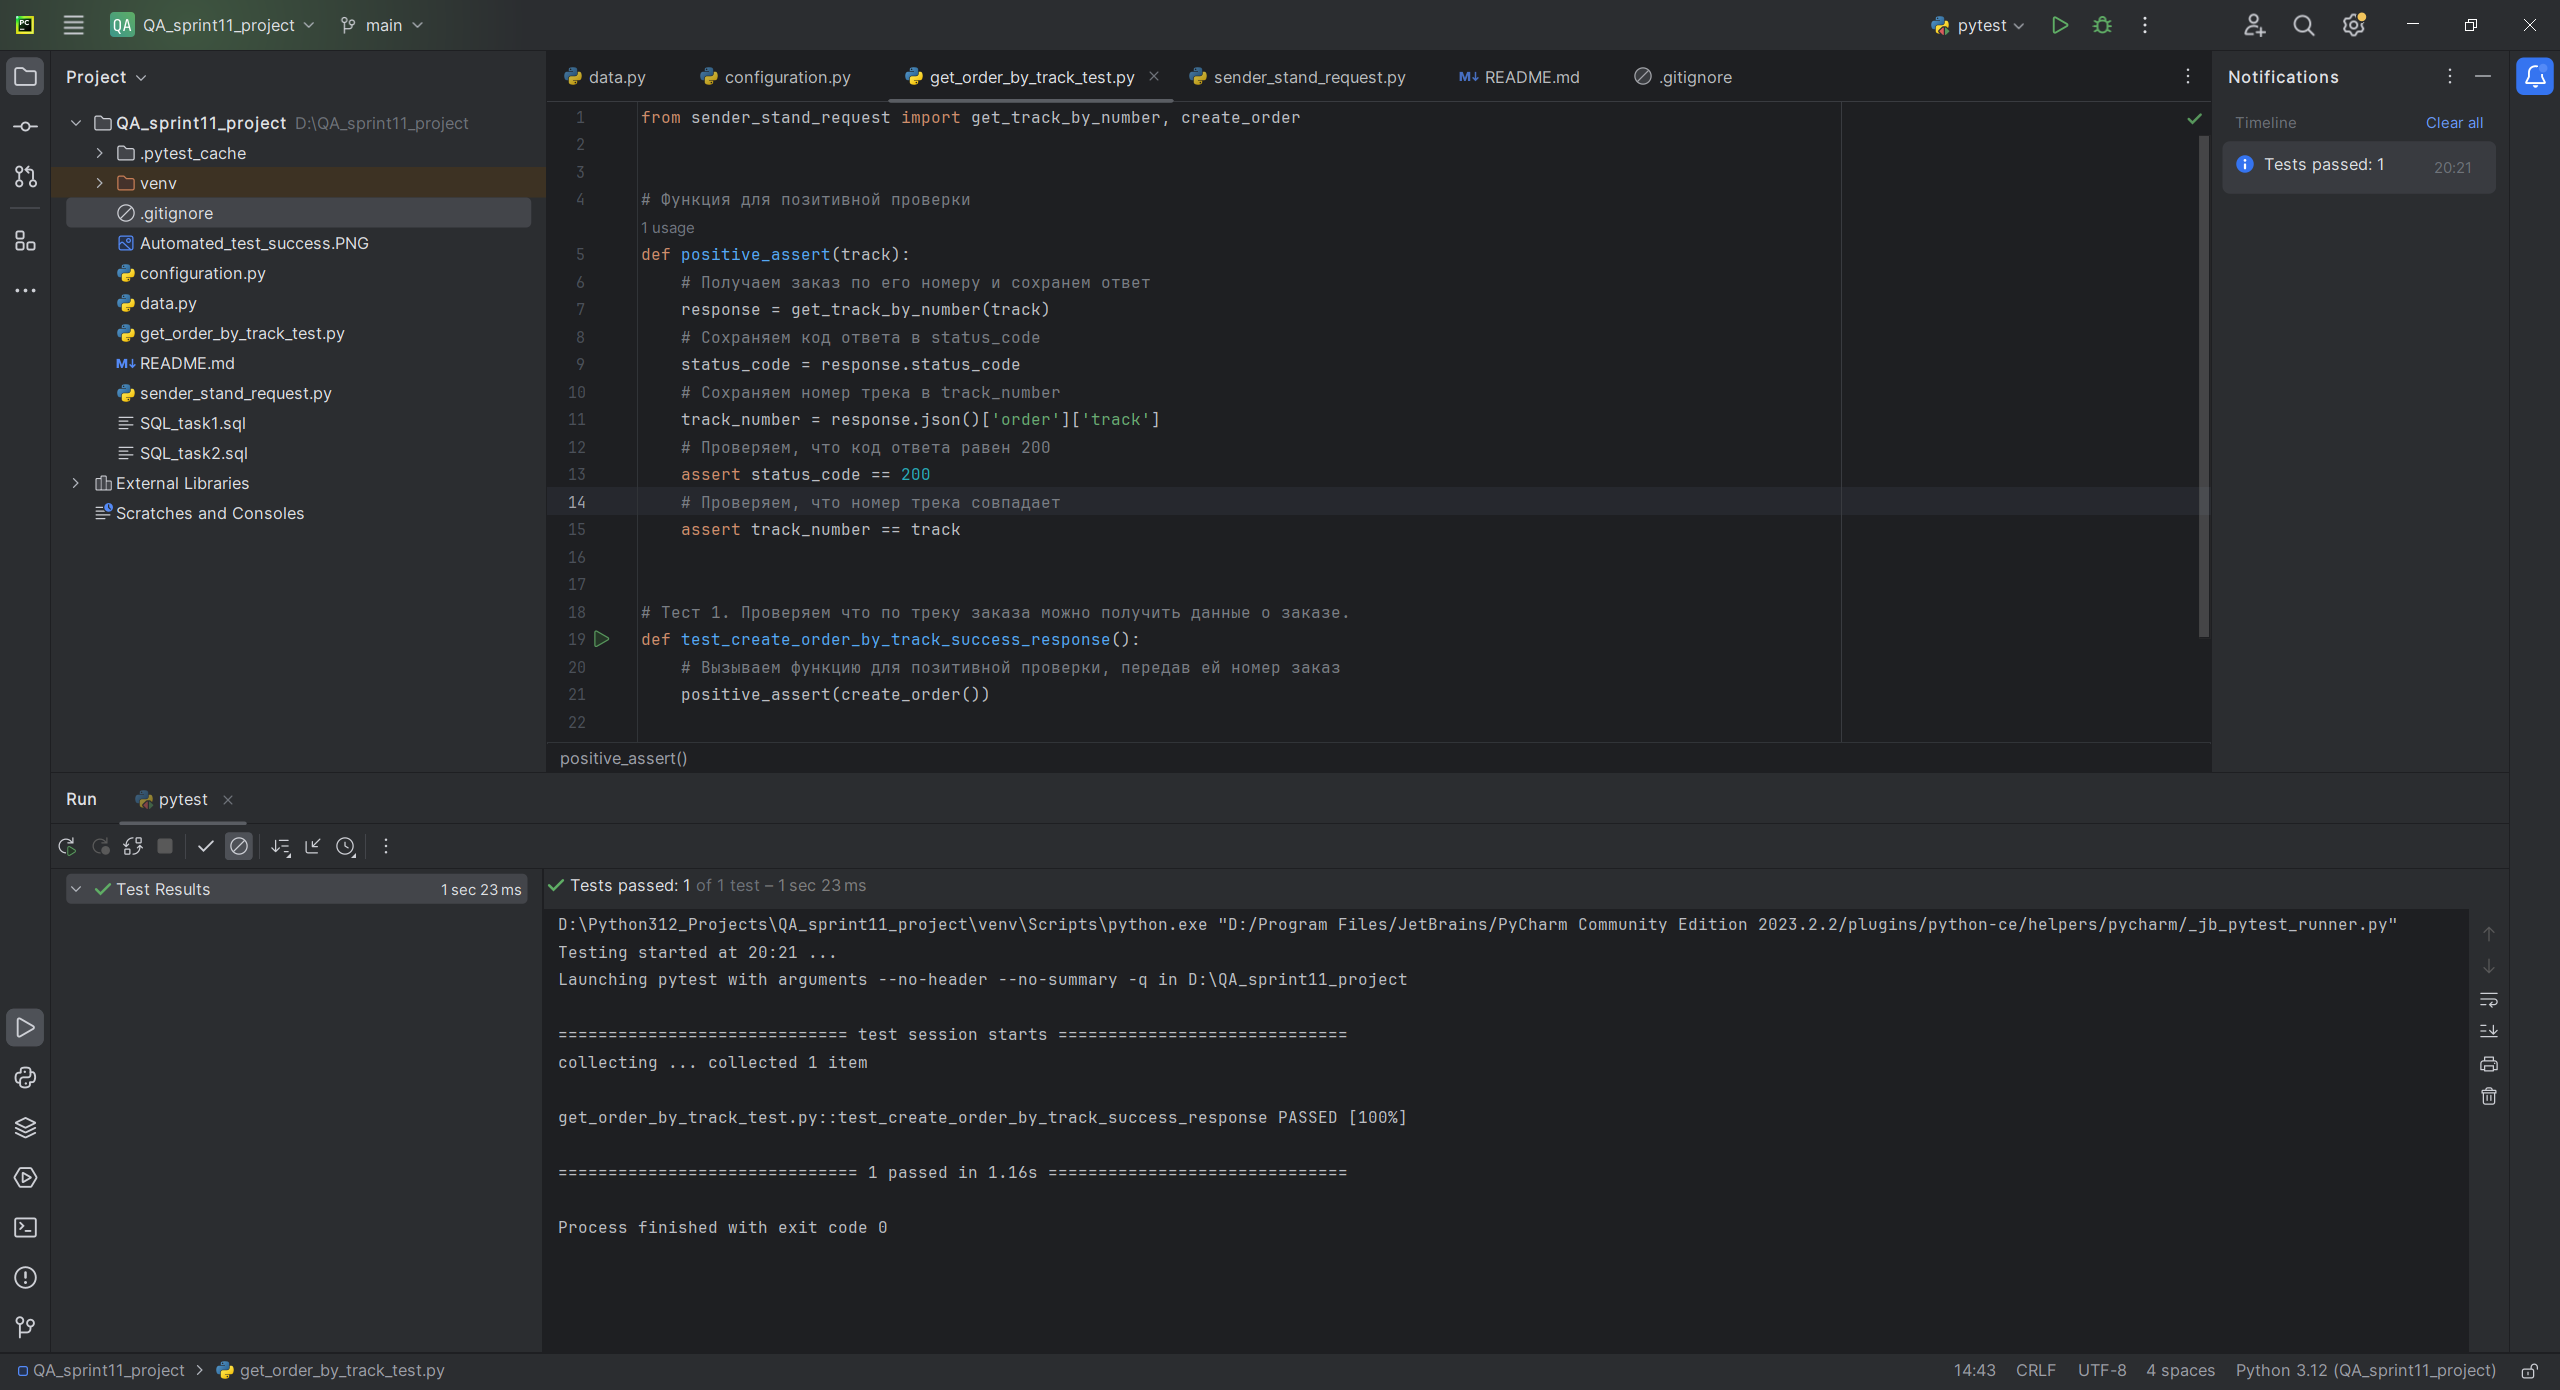
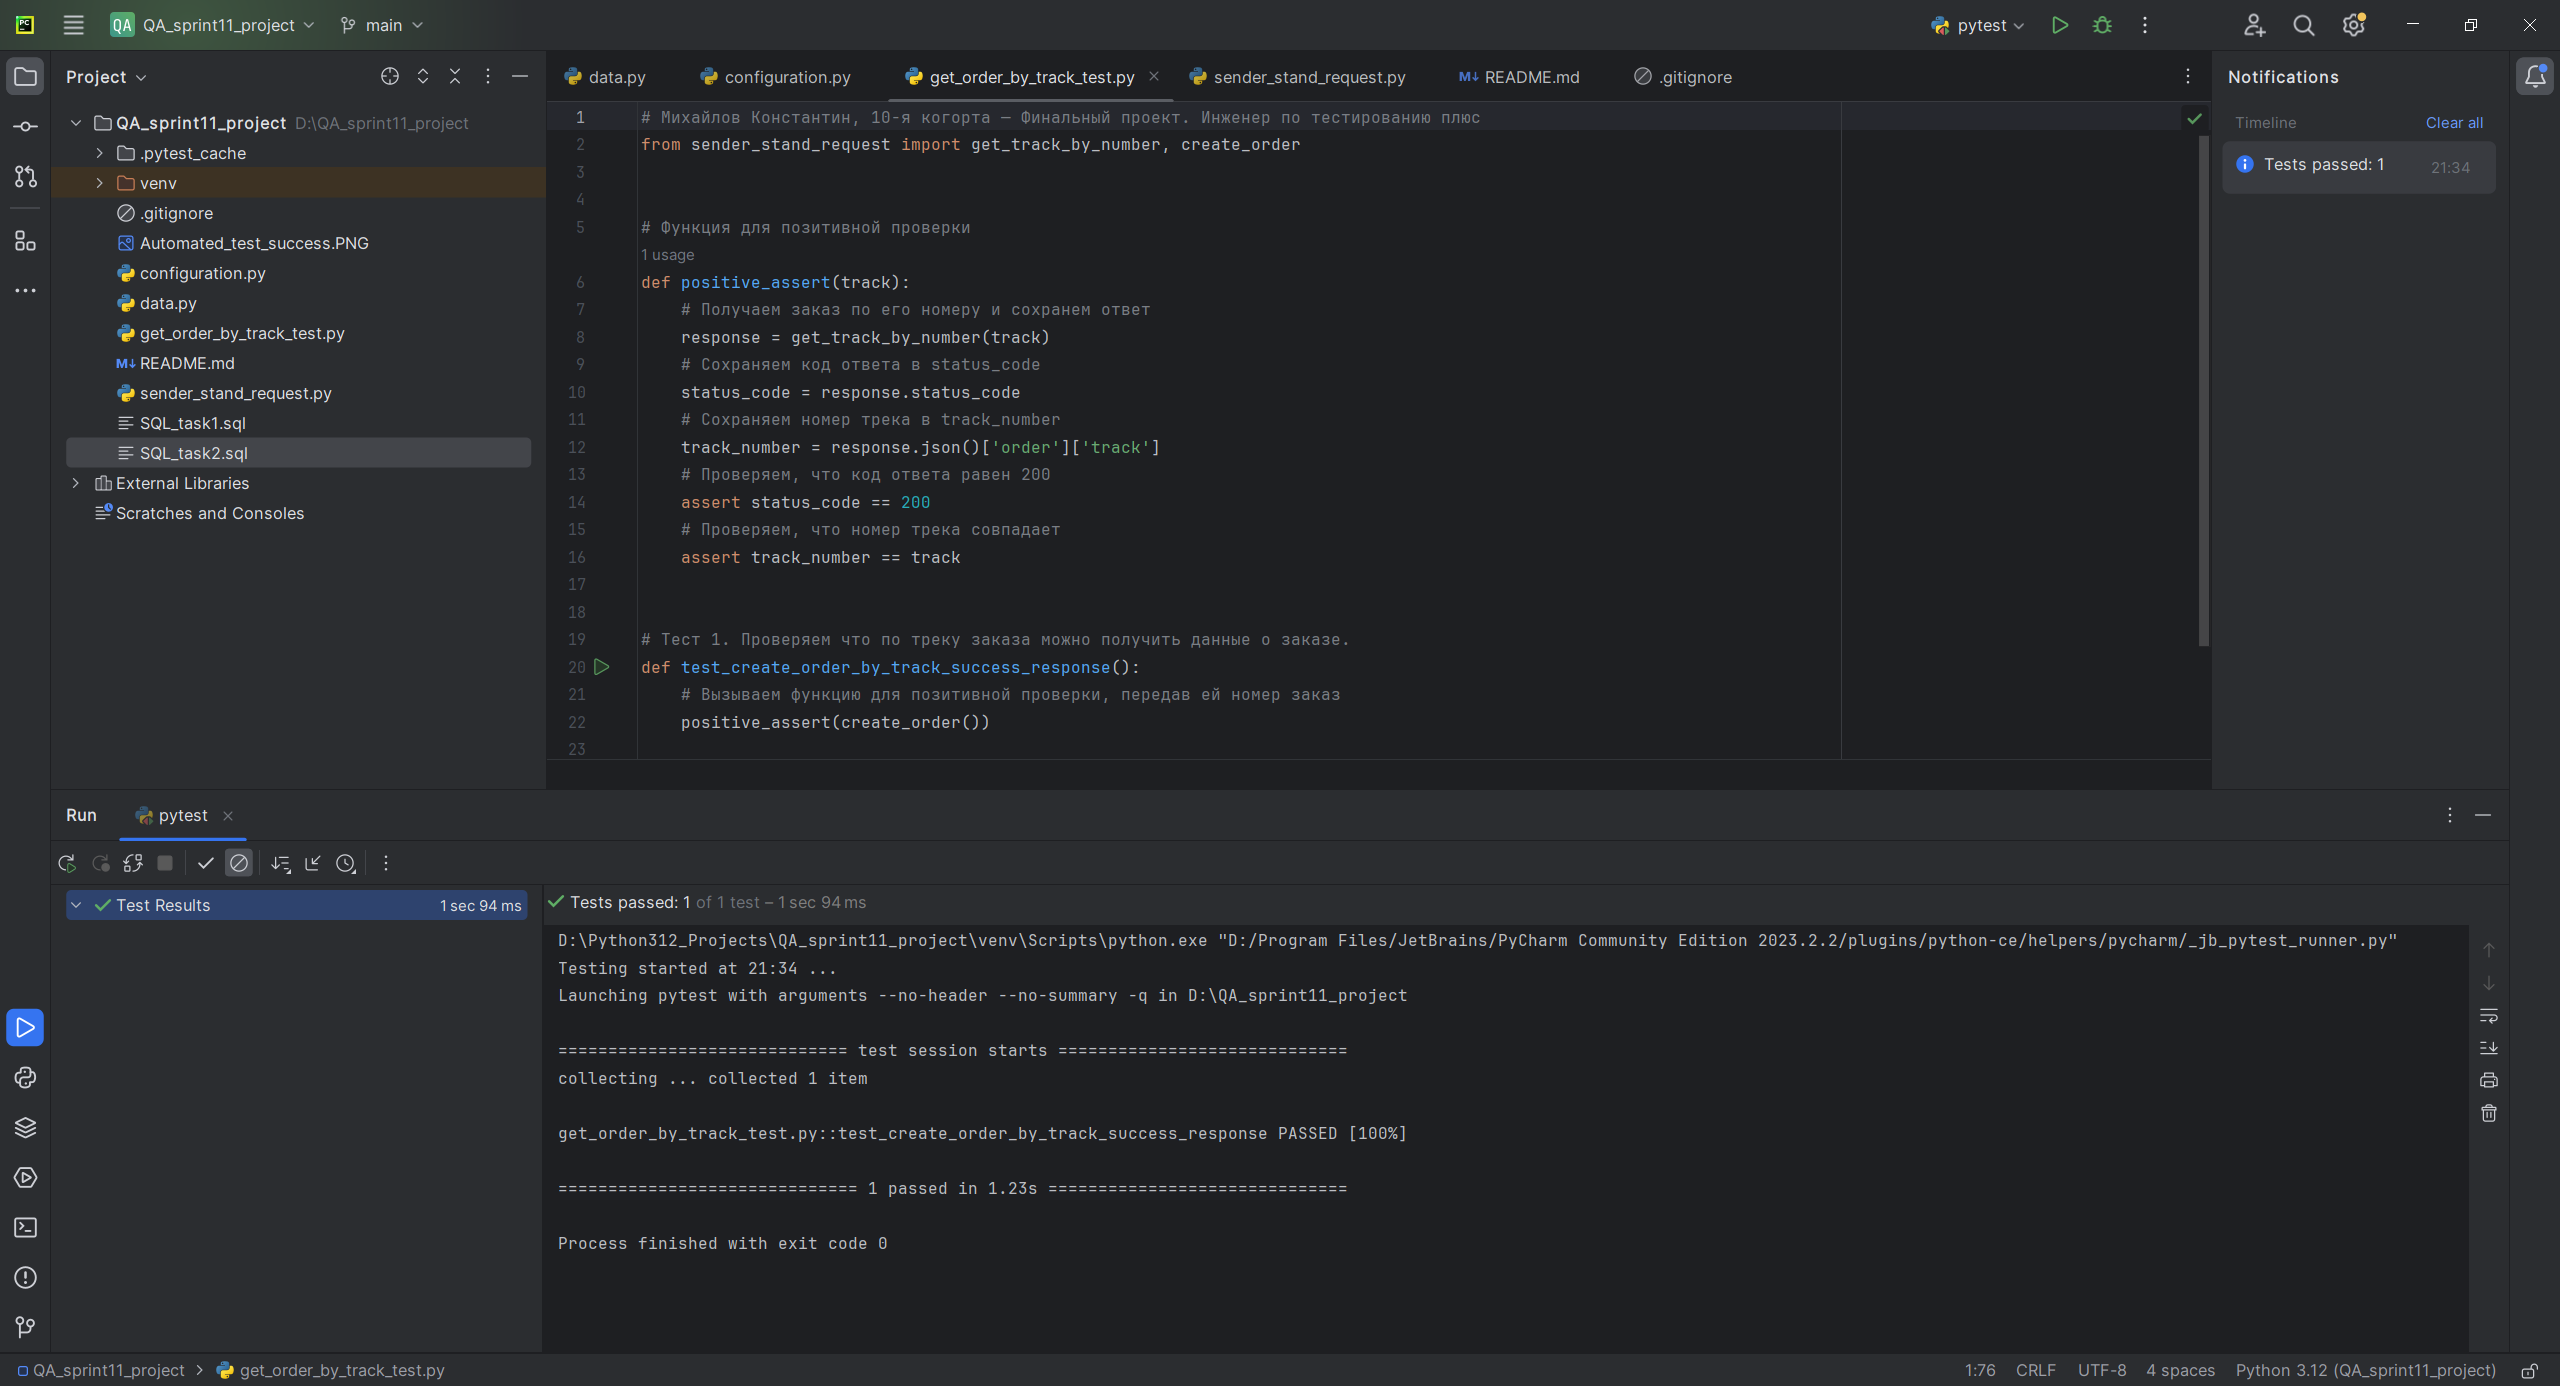
add comment to get_order_by_track_test.py

diff --git a/sender_stand_request.py b/sender_stand_request.py
@@ -6,7 +6,8 @@ import data
 # Функция создания заказа
 def create_order():
     # Отправляем запрос на создание заказа и возвращаем номер трека заказа
-    return requests.post(configuration.URL_SERVICE + configuration.CREATE_ORDER_URL, json=data.order_body).json()['track']
+    return requests.post(configuration.URL_SERVICE + configuration.CREATE_ORDER_URL, json=data.order_body).json()[
+        'track']
 
 
 # Функция получения заказа

diff --git a/get_order_by_track_test.py b/get_order_by_track_test.py
@@ -1,3 +1,4 @@
+# Михайлов Константин, 10-я когорта — Финальный проект. Инженер по тестированию плюс
 from sender_stand_request import get_track_by_number, create_order
 
 
